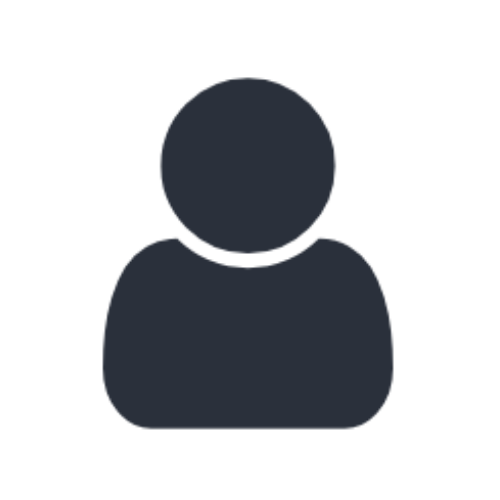
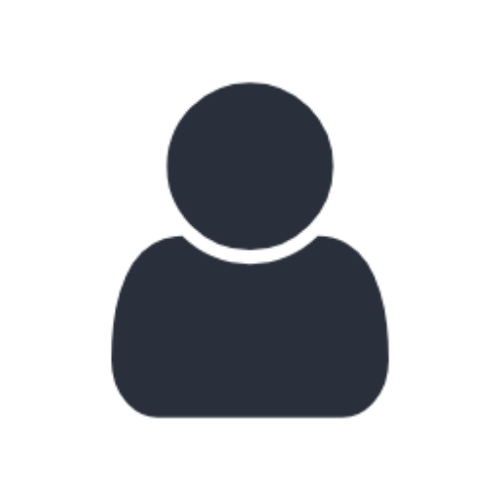
replced the unknown picture for a 500 pixel variant instead of 256 and removed the global import of the cropper to the specific cropper component

diff --git a/src/vue/src/main.js b/src/vue/src/main.js
@@ -61,13 +61,11 @@ import 'vue-awesome/icons/github'
 
 import Toasted from 'vue-toasted'
 import flatPickr from 'vue-flatpickr-component'
-import Croppa from 'vue-croppa'
 
 Vue.config.productionTip = false
 Vue.use(Toasted, { position: 'top-center', duration: 4000 })
 Vue.use(BootstrapVue)
 Vue.use(flatPickr)
-Vue.use(Croppa)
 
 /* Checks the store for for permissions according to the current route cID or aID. */
 Vue.prototype.$hasPermission = store.getters['permissions/hasPermission']

diff --git a/src/vue/src/components/assets/ImageCropper.vue b/src/vue/src/components/assets/ImageCropper.vue
@@ -34,6 +34,10 @@
 
 <script>
 import icon from 'vue-awesome/components/Icon'
+import Vue from 'vue'
+import Croppa from 'vue-croppa'
+
+Vue.use(Croppa, { componentName: 'croppa' })
 
 export default {
     name: 'ImageCropper',
